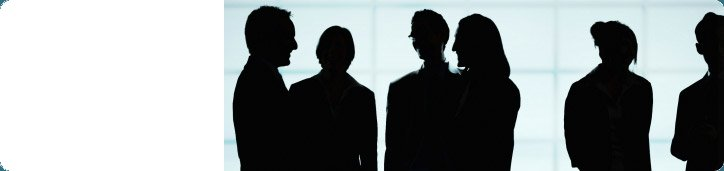
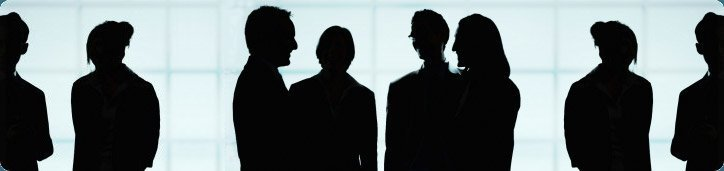
nouvelle version site web

Changed region(s): [[0.0, 0.0, 0.3343, 1.0]]

diff --git a/trunk/site_web/style.css b/trunk/site_web/style.css
@@ -7,14 +7,6 @@ body {
    background: #e2ebed;
 }
 
-h1 {
-   color: #fff;
-   background: #317082;
-   font-size: 45px;
-   letter-spacing: 15px;
-   margin: 0px;
-}
-
 h3 {
    font-size: 20px;
    font-family: "Trebuchet MS", "Lucida Sans Unicode", "Arial", sans-serif;
@@ -23,51 +15,50 @@ h3 {
 }
 
 #container {
-   margin: 0 auto;
+   margin: auto;
    width: 724px;
    position: relative;
    color: #ddd;
    background: #317082;
-   padding: 30px 10px 0px 10px;
+   padding: 10px 10px 0px 10px;
 }
 
 #pageTitle {
-   padding-bottom: 25px;
    text-align: center;
+   margin: 0px;
 }
 
 #logo {
-   position: absolute;
-   padding-top: 25px;
-   padding-bottom: 30px;
-   height: 171px;
-   width: 724px;
-   margin: 0;
-   background: url("img/background.jpg") no-repeat;
+   vertical-align:middle;
+   margin: 0px 50px 0px 0px;
 }
 
-#hileLogo {
-   text-align: center;
-   display: block;
+#title {
+   color: #fff;
+   background: #317082;
+   font-size: 40px;
+   letter-spacing: 10px;
    margin: 0px;
-   padding: 0px 520px 0px 0px;
+}
+
+#ban {
+   height: 171px;
+   width: 724px;
+   padding-top: 20px;
+   padding-bottom: 20px;
+   background: url("img/background.jpg") no-repeat;
 }
 
 #textLogo {
    font-size: 13px;
-   text-align: right;
+   text-align: center;
    font-family: "Trebuchet MS", sans-serif;
-   color: #000;
-   background: #fff; 
-}
-
-#logo p {
-   margin: 0px;
-   text-align: right;
+   
+   
 }
 
 #pageData {
-   margin: 200px 20px 0px 243px;
+   margin: 0px 0px 0px 240px;
 }
 
 #pageData p {
@@ -76,7 +67,7 @@ h3 {
 }
     
 #pageData h3 {
-   margin: 40px 0px 10px 30px;
+   margin: 0px 0px 10px 30px;
 }
 
 #linkList {
@@ -97,7 +88,7 @@ h3 {
 
 #linkList li {
    font-size: 12px;
-   padding: 10px 10px 10px 10px;
+   padding: 10px 10px 10px 0px;
 }
 
 #certif {
@@ -113,11 +104,13 @@ h3 {
 
 #linkList ul li a {
    text-decoration: underline;
+   color: #eee;
    display: block;
    font-size: 13px;
 }
 
 #linkList ul li a:hover {
-   color: #D60808;
+   text-decoration: none;
+   color: #fff;
    background: #317082;
 }
